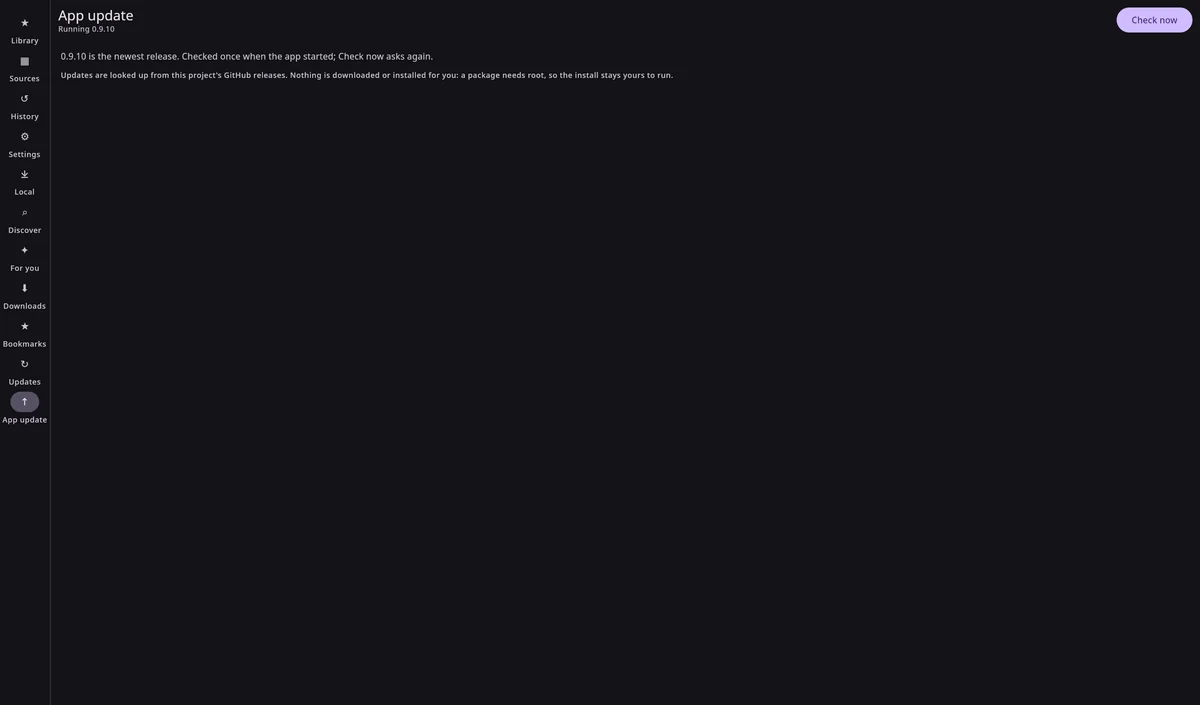
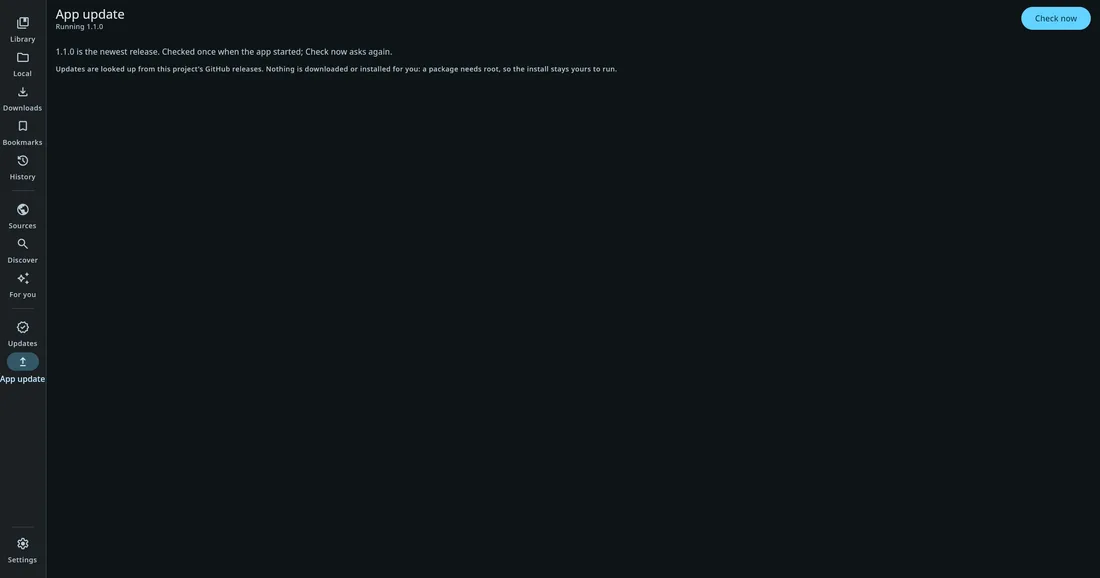
docs: reshoot the desktop screenshots on the new interface
All five were taken before the design pass, so they show Material's default
purple against a cyan app icon, unicode glyphs in the rail, and the chapter
length filter as a row of chips that ran off the edge of the window. That
filter is a menu now, so its alt text describes one.

Two grey cells at the right of the library shelf are sources whose addresses
no longer resolve. They are left in rather than cropped out: that is what a
library looks like when a third-party site goes away, and the app says so per
cover instead of showing an empty frame.

Changed region(s): [[0.0, 0.0, 0.5564, 0.6851], [0.9273, 0.0, 1.0, 0.0623], [0.0, 0.9343, 0.0309, 0.9965]]

diff --git a/README.md b/README.md
@@ -149,7 +149,7 @@ The library filters by how many chapters a title has, which is the quick way to 
 ones on a "read it once it is long enough" shelf that have grown past your threshold.
 
 <p align="center">
-  <img src="assets/desktop_chapter-filter-preview.webp" alt="The chapter length filter, with buckets from 1 to 25 up to Over 500 and a 100 or more bucket, above a bar offering to load the counts that are still unknown" width="90%" />
+  <img src="assets/desktop_chapter-filter-preview.webp" alt="The chapter length filter open as a menu, with buckets from Not loaded and 1 to 25 up to Over 500 and 100 or more, beside the bar offering to load the counts that are still unknown" width="90%" />
 </p>
 
 Counts are read from the database, not fetched while you scroll. They get there three
